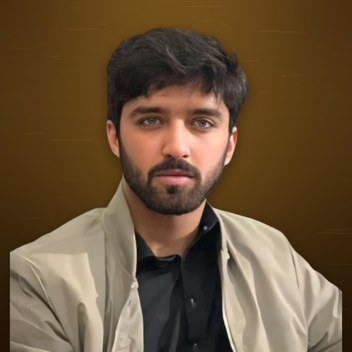
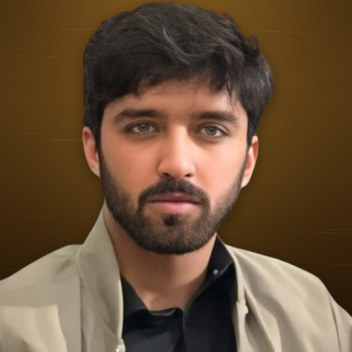
Recrop the founder photo to fill its frame
The previous crop left wood visible down both sides and in the bottom
corners. Tightened to head and shoulders so the subject reaches the edges.

Photo URLs carry ?v=2 because /img/* is cached immutable for a year and
would otherwise pin returning visitors to the old crop.

diff --git a/index.html b/index.html
@@ -236,8 +236,8 @@
     <div class="panel founder">
       <span class="bolt tl"></span><span class="bolt br"></span>
       <picture class="f-photo">
-        <source srcset="/img/brand/ahsan.webp 1x, /img/brand/ahsan-2x.webp 2x" type="image/webp">
-        <img src="/img/brand/ahsan.jpg" srcset="/img/brand/ahsan.jpg 1x, /img/brand/ahsan-2x.jpg 2x"
+        <source srcset="/img/brand/ahsan.webp?v=2 1x, /img/brand/ahsan-2x.webp?v=2 2x" type="image/webp">
+        <img src="/img/brand/ahsan.jpg?v=2" srcset="/img/brand/ahsan.jpg?v=2 1x, /img/brand/ahsan-2x.jpg?v=2 2x"
              alt="Ahsan Hunain, founder of DoodleWood Games" width="176" height="176"
              loading="lazy" decoding="async">
       </picture>

diff --git a/README.md b/README.md
@@ -27,6 +27,12 @@ Bump the `?v=` number on the `<link>` and `<script>` tags in `index.html`.
 Browsers key their cache on the full URL, so without a bump a returning
 visitor can keep serving the old file.
 
+## Replacing an image
+
+`/img/*` is served with a one year immutable cache, so overwriting a file
+is not enough — returning visitors keep the old one. Either rename the
+file or bump the `?v=` on its URL in `index.html`.
+
 ## Editing images
 
 Source PNGs live in the old Portfolio repo. Re-export as 900px wide WebP
